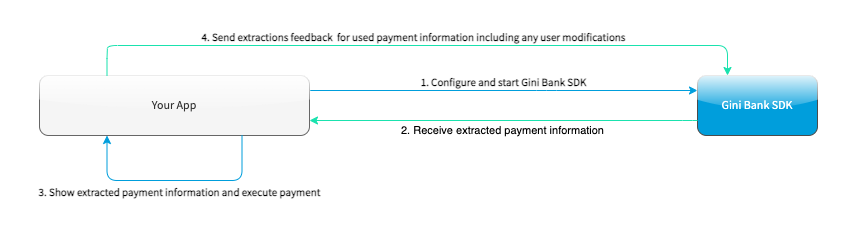
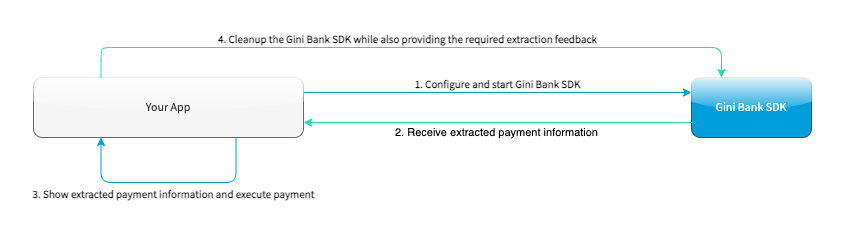
docs(bank-sdk): Update integration guide related to feedback and networking
PIA-3652

diff --git a/bank-sdk/sdk/src/doc/source/integration.rst b/bank-sdk/sdk/src/doc/source/integration.rst
@@ -65,17 +65,17 @@ Configuration
 Configuration and interaction is done using ``CaptureConfiguration``. To set the configuration use the
 ``GiniBank.setCaptureConfiguration()`` static method.
 
-.. important::
+You must call ``GiniBank.releaseCapture()`` after the user has seen (and potentially corrected) the extractions. You
+need to pass the updated extraction values to ``releaseCapture()``. If the SDK didn't return any extractions you can
+pass in empty strings.
 
-    The configuration is immutable and make sure to call ``GiniBank.releaseCapture()`` before setting a new
-    configuration.
-
-You should call ``GiniBank.releaseCapture()`` after the SDK returned control to your application and your app has
-sent feedback to the Gini Bank API and is not using the capture feature anymore.
+Failing to call ``GiniBank.releaseCapture()`` will throw an ``IllegalStateException`` when
+``GiniBank.setCaptureConfiguration()`` is called again.
 
 To view all the configuration options see the documentation of :root_dokka_path:`CaptureConfiguration <sdk/net.gini.android.bank.sdk.capture/-capture-configuration/index.html>`.
 
-Information about the configurable features are available on the `Capture Features <capture-features.html>`_ page.
+Information about the configurable features are available on the `Capture Features <capture-features.html>`_ page and UI
+customization options can be viewed in the `Customization Guide <customization-guide.html>`_.
 
 Tablet Support
 ~~~~~~~~~~~~~~
@@ -107,14 +107,18 @@ Bank API. You may also implement your own networking layer.
     You should have received Gini Bank API client credentials from us. Please get in touch with us in case you don’t have
     them. Without credentials you won't be able to use the Gini Bank API.
 
+We provide the ``GiniCaptureNetworkService`` interface which is used to upload, analyze and delete documents. See the
+:root_dokka_path:`reference documentation <sdk/net.gini.android.capture.network/-gini-capture-network-service/index.html>`
+for details.
+
 Default Implementation
 ^^^^^^^^^^^^^^^^^^^^^^
 
 The capture feature is not aware of any networking implementations and requires you to set them in the
 ``CaptureConfiguration``. 
 
-The default networking implementations are the ``GiniCaptureDefaultNetworkService`` and
-``GiniCaptureDefaultNetworkApi``. We provide you with two helper methods to create them with the minimal configuration:
+The default networking implementations is ``GiniCaptureDefaultNetworkService``. We provide you with a helper method
+to create it with minimal configuration:
 
 .. code-block:: java
 
@@ -125,21 +129,10 @@ The default networking implementations are the ``GiniCaptureDefaultNetworkServic
         emailDomain = myEmailDomain,
         documentMetadata = myDocumentMetadata
     )
-    
-    val networkApi = getDefaultNetworkApi(networkService)
-    
-    GiniBank.setCaptureConfiguration(
-        CaptureConfiguration(
-            networkService = networkService,
-            networkApi = networkApi
-        )
-    )
 
 For all configuration options of the default networking implementation see the documentation of
 :root_dokka_path_capture_sdk_default_network:`GiniCaptureDefaultNetworkService.Builder
-<default-network/net.gini.android.capture.network/-gini-capture-default-network-service/-builder/index.html>`
-and :root_dokka_path_capture_sdk_default_network:`GiniCaptureDefaultNetworkApi.Builder
-<default-network/net.gini.android.capture.network/-gini-capture-default-network-api/-builder/index.html>`.
+<default-network/net.gini.android.capture.network/-gini-capture-default-network-service/-builder/index.html>`.
 
 Retrieve the Analyzed Document
 ++++++++++++++++++++++++++++++
@@ -153,99 +146,16 @@ extractions came from an EPS QR Code.
 
 .. note::
 
-    Make sure to call it before calling ``GiniCaptureDefaultNetworkService.cleanup()`` or ``GiniBank.releaseCapture()``.
-    Otherwise the analyzed document won't be available anymore.
+    Make sure to call it before calling ``GiniBank.releaseCapture()``. Otherwise the analyzed document won't be
+    available anymore.
 
 Custom Implementation
 ^^^^^^^^^^^^^^^^^^^^^
 
-You can also provide your own networking by implementing the ``GiniCaptureNetworkService`` and the
-``GiniCaptureNetworkApi`` interfaces:
-
-* ``GiniCaptureNetworkService``
-   This interface is used to upload, analyze and delete documents. See the :root_dokka_path_capture_sdk:`reference documentation <sdk/net.gini.android.capture.network/-gini-capture-network-service/index.html>`
-   for details.
-
-* ``GiniCaptureNetworkApi``
-   This interface is used to declare network tasks which should be called by you outside of the Gini Capture SDK (e.g.,
-   for sending feedback after the user saw and potentielly corrected the extractions).  See the :root_dokka_path_capture_sdk:`reference documentation <sdk/net.gini.android.capture.network/-gini-capture-network-api/index.html>`
-   for details.
+You can also provide your own networking by implementing the ``GiniCaptureNetworkService`` interface.
 
 You may also use the `Gini Bank API Library <https://github.com/gini/gini-mobile-android/tree/main/bank-api-library>`_
-for Android or implement communication with the Gini Bank API yourself.
-
-Sending Feedback
-^^^^^^^^^^^^^^^^
-
-Your app should send feedback for the extractions the Gini Bank API delivered. Feedback should be sent *only* for the
-extractions the user has seen and accepted (or corrected).
-
-For addition information about feedback see the `Gini Bank API documentation
-<https://pay-api.gini.net/documentation/#send-feedback-and-get-even-better-extractions-next-time>`_.
-
-Default Implementation
-++++++++++++++++++++++
-
-The example below shows how to correct extractions and send feedback using the default networking implementation:
-
-.. note::
-
-    We also provide a sample test case `here
-    <https://github.com/gini/gini-mobile-android/blob/main/bank-sdk/sdk/src/androidTest/java/net/gini/android/bank/sdk/ExtractionFeedbackIntegrationTest.kt>`_
-    to verify that extraction feedback sending works. You may use it along with the example pdf and json files as a
-    starting point to write your own test case.
-
-    The sample test case is based on the Bank API documentation's `recommended steps
-    <https://pay-api.gini.net/documentation/#test-example>`_ for testing extraction feedback sending.
-
-.. code-block:: java
-
-   val networkApi: GiniCaptureDefaultNetworkApi // Provided
-
-   val extractions: Map<String, GiniCaptureSpecificExtraction> // Provided
-
-   // Modify the amount to pay extraction's value.
-   GiniCaptureSpecificExtraction amountToPay = extractions["amountToPay"];
-   amountToPay.value = "31.00:EUR"
-
-   // You should send feedback only for extractions the user has seen and accepted.
-   // In this example only the amountToPay was wrong and we can reuse the other extractions.
-    val feedback = mapOf<String, GiniCaptureSpecificExtraction>(
-        "iban" to mExtractions["iban"],
-        "amountToPay" to amountTopay,
-        "bic" to mExtractions["bic"],
-        "senderName" to mExtractions["sencerName"]
-    )
-
-    networkApi.sendFeedback(feedback, object : GiniCaptureNetworkCallback<Void, Error> {
-        override fun failure(error: Error) {
-            // Handle the error.
-        }
-
-        override fun success(result: Void?) {
-            // Feedback sent successfully.
-        }
-
-        override fun cancelled() {
-            // Handle cancellation.
-        }
-    })
-
-Custom Implementation
-+++++++++++++++++++++
-
-If you use your own networking implementation and directly communicate with the Gini Bank API then see `this section
-<https://pay-api.gini.net/documentation/#submitting-feedback-on-extractions>`_ in its documentation on how to send
-feedback.
-
-In case you use the Gini Bank API Library then consult its `documentation
-<https://developer.gini.net/gini-mobile-android/bank-api-library/library/>`_ for details.
-
-.. note::
-
-    The Bank API documentation provides `recommended steps <https://pay-api.gini.net/documentation/#test-example>`_ for
-    testing extraction feedback sending. You may use it along with the example pdf and json files as a starting point to
-    write a test case for verifying that feedback sending works. 
+for Android or implement communication with the `Gini Bank API <https://pay-api.gini.net/documentation/>`_ yourself.
 
 Capture Flow
 ~~~~~~~~~~~~
@@ -255,7 +165,10 @@ To use the capture flow you only need to:
 #. Request camera access,
 #. Configure the capture feature using the ``CaptureConfiguration``,
 #. Register an activity result handler with the ``CaptureFlowContract()``,
-#. Start the capture flow.
+#. Launch the SDK with ``GiniBank.startCaptureFlow()``,
+#. Handle the extraction results,
+#. Cleanup the SDK by calling ``GiniBank.releaseCapture()`` while also providing the required extraction feedback to
+   improve the future extraction accuracy.
 
 The following diagram shows the interaction between your app and the SDK:
 
@@ -291,15 +204,31 @@ The following example shows how to launch the capture flow and how to handle the
                         handleFileImportError(fileImportError)
                     }
                 }
+                GiniBank.releaseCapture(
+                    this, "",
+                    "", "", "", "", Amount.EMPTY
+                )
             }
             CaptureResult.Empty -> {
                 handleNoExtractions()
+                GiniBank.releaseCapture(
+                    this, "",
+                    "", "", "", "", Amount.EMPTY
+                )
             }
             CaptureResult.Cancel -> {
                 handleCancellation()
+                GiniBank.releaseCapture(
+                    this, "",
+                    "", "", "", "", Amount.EMPTY
+                )
             }
             CaptureResult.EnterManually -> {
                 handleEnterManually()
+                GiniBank.releaseCapture(
+                    this, "",
+                    "", "", "", "", Amount.EMPTY
+                )
             }
         }
     }
@@ -314,24 +243,33 @@ The following example shows how to launch the capture flow and how to handle the
             return
         }
         
-        // Instantiate the networking implementations.
+        // Instantiate the networking implementation.
         val networkService: GiniCaptureNetworkService  = ...
-        val networkApi: GiniCaptureNetworkApi = ...
-
-        // Cleanup to make sure everything is reset.
-        GiniBank.releaseCapture(this)
 
         // Configure the capture feature.
         GiniBank.setCaptureConfiguration(
             CaptureConfiguration(
                 networkService = networkService,
-                networkApi = networkApi,
                 ...
             )
         )
                 
         // Launch and wait for the result.
         GiniBank.startCaptureFlow(captureLauncher)
+    }
+
+    void stopGiniBankSDK() {
+        // After the user has seen and potentially corrected the extractions
+        // cleanup the SDK while passing in the final extraction values 
+        // which will be used as feedback to improve the future extraction accuracy:
+        GiniBank.releaseCapture(this,
+                paymentRecipient,
+                paymentReference,
+                paymentPurpose,
+                iban,
+                bic,
+                amount
+            )
     }
 
 Handling Payment Requests
